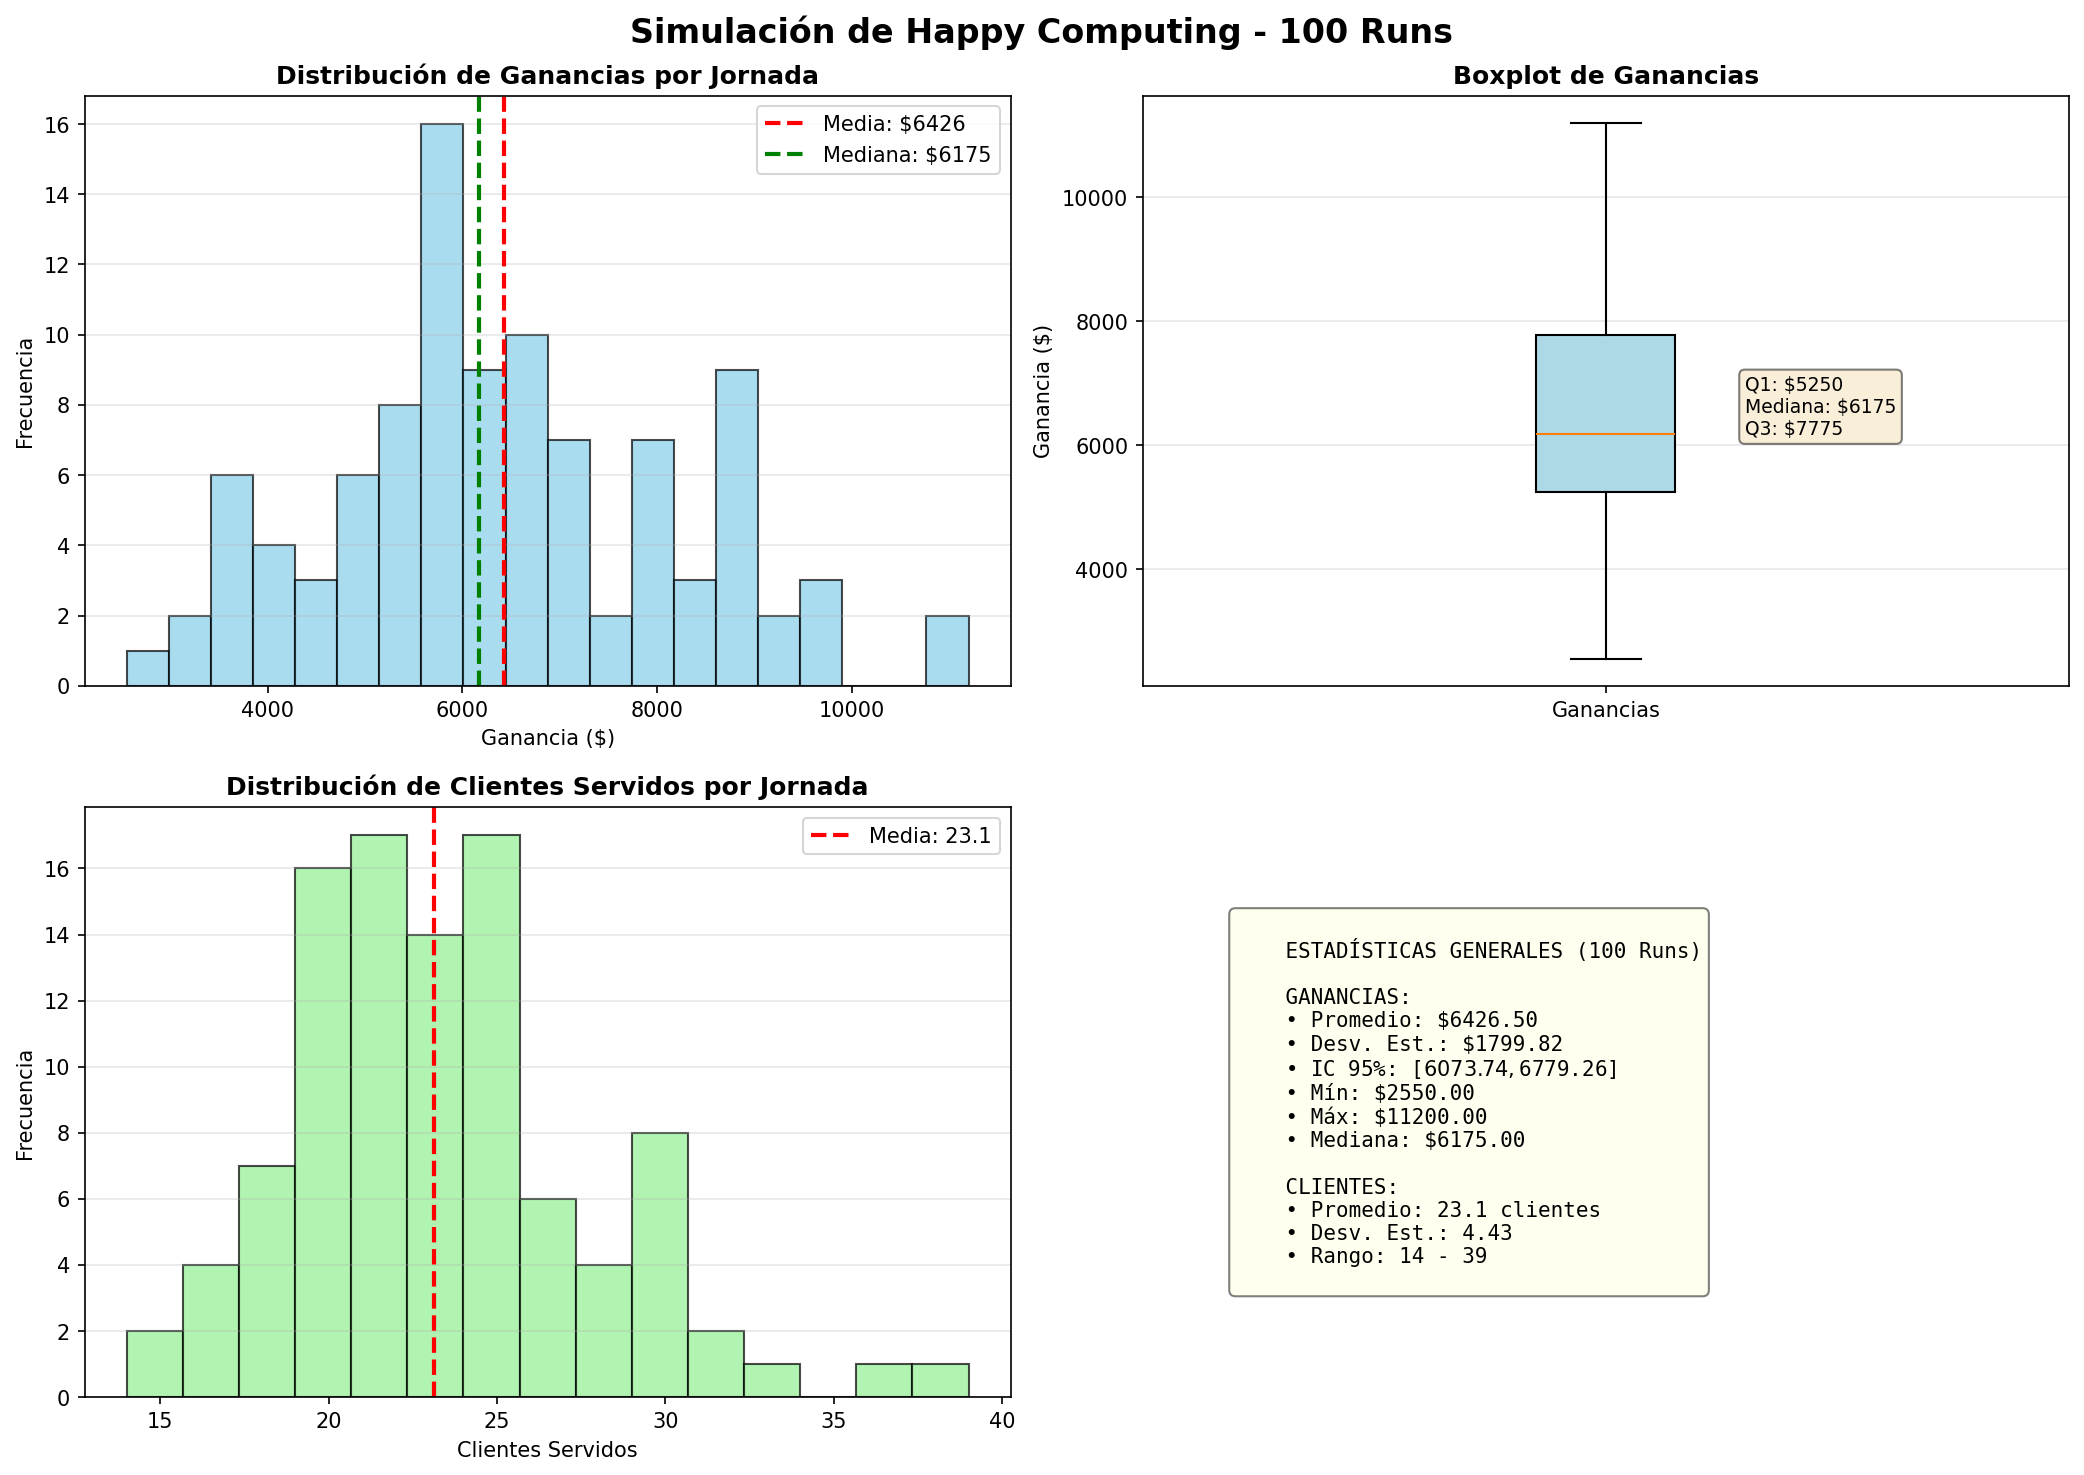
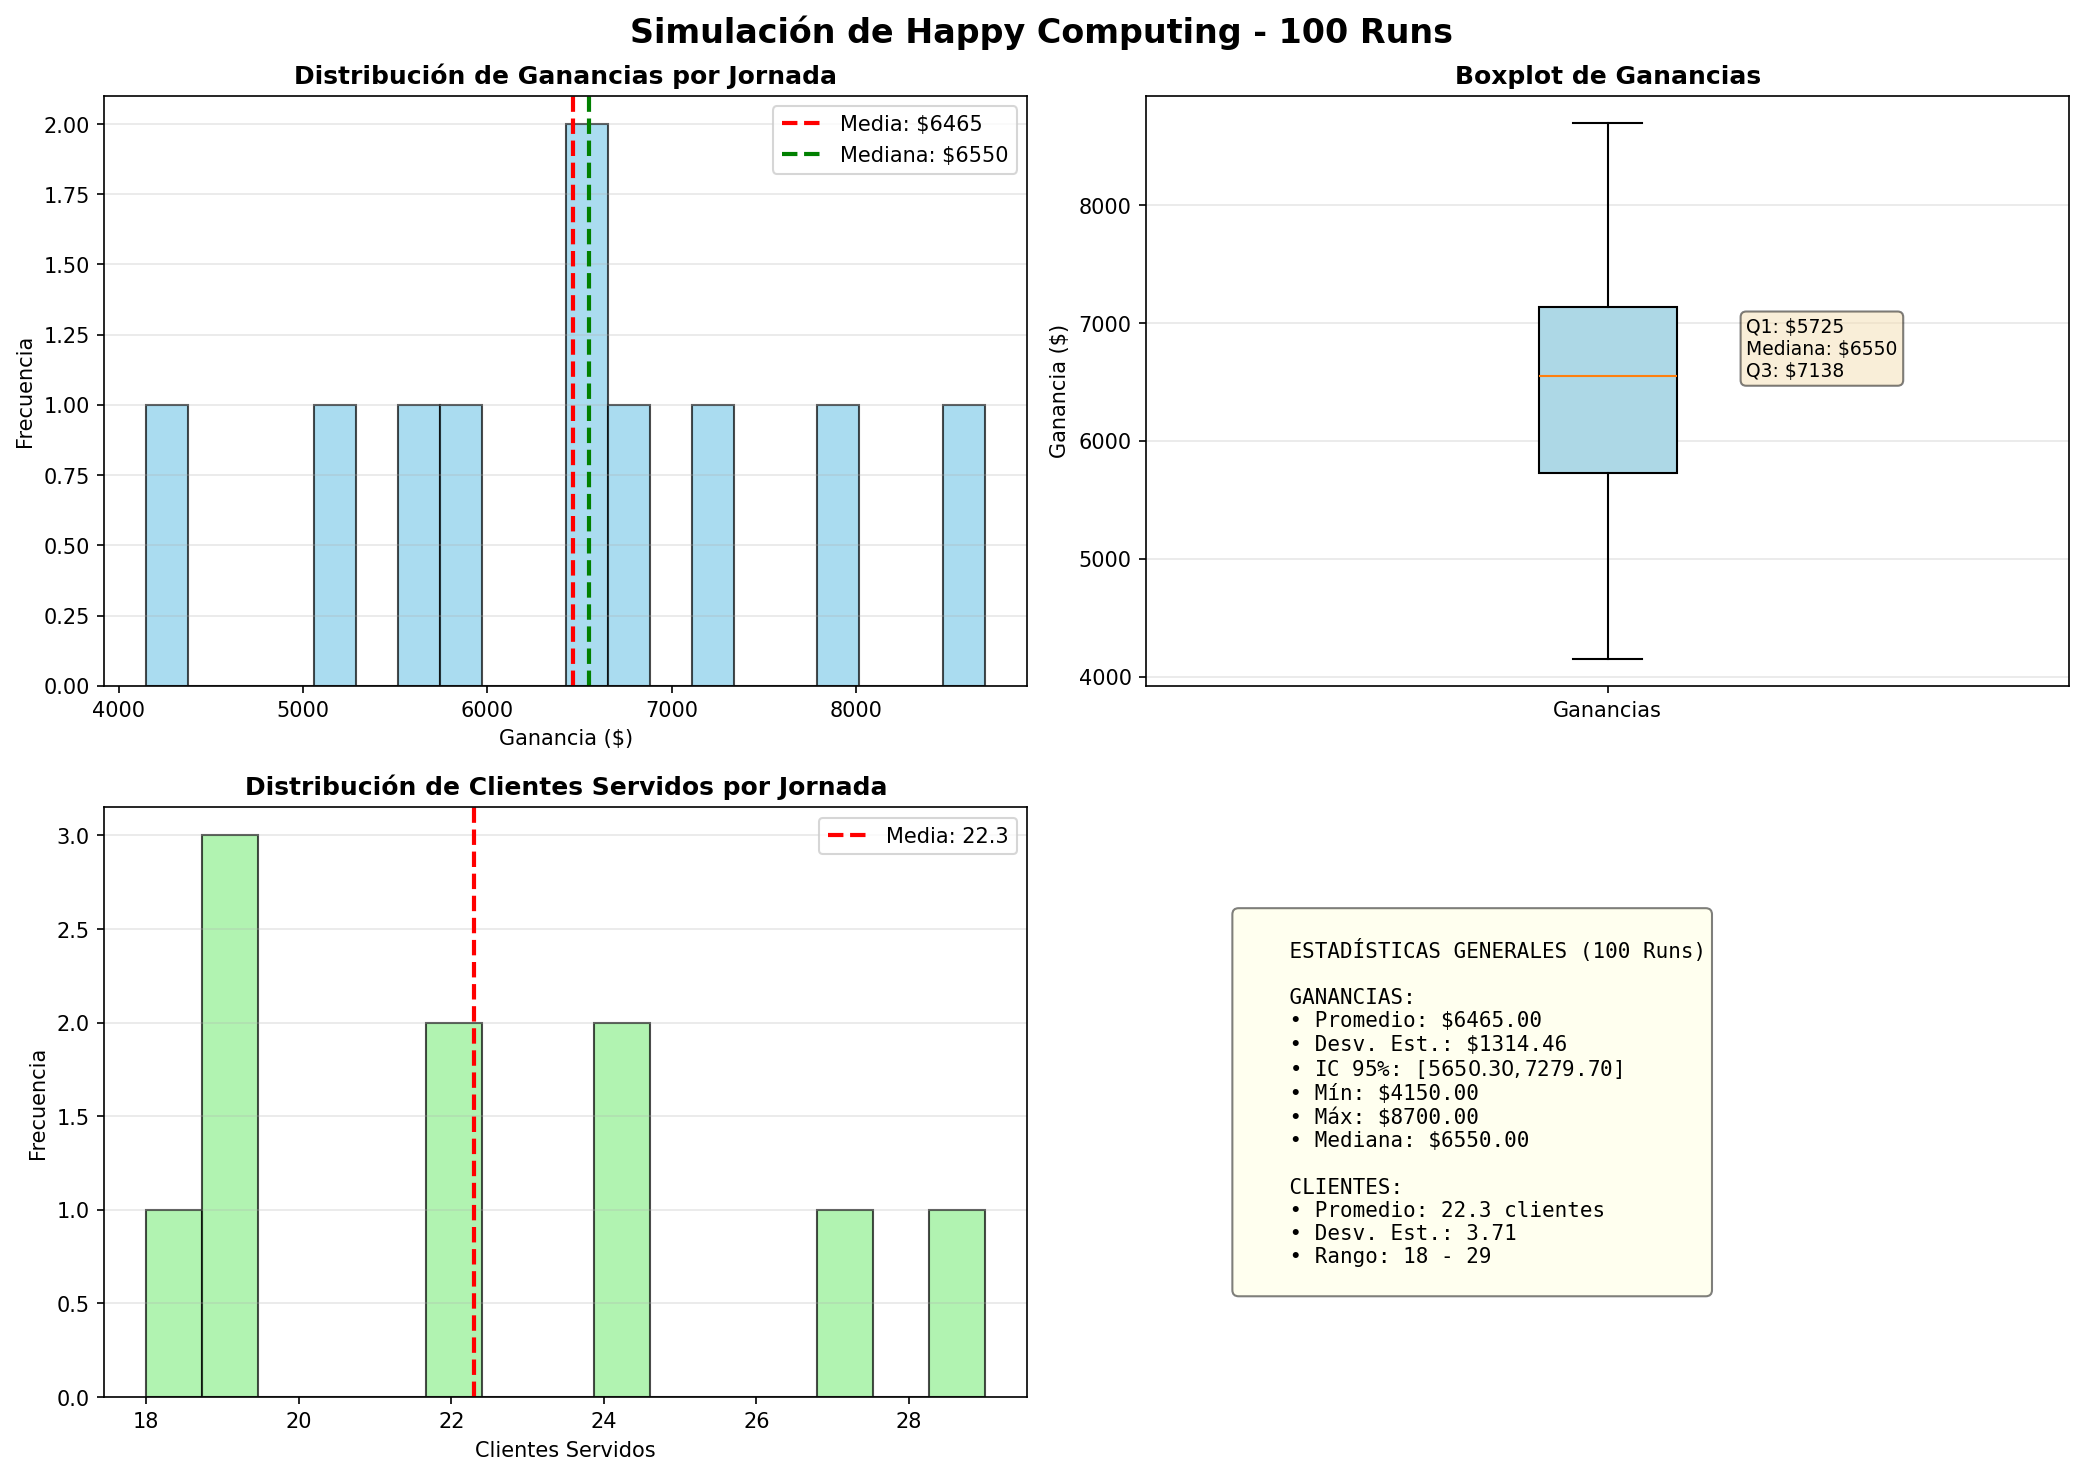
agregando nuevos analisis sobre las colas

diff --git a/src/visualizations.py b/src/visualizations.py
@@ -23,6 +23,7 @@ def create_visualizations(num_runs=100):
     profits = []
     clients_served = []
     all_stats = []
+    run_seeds = []
     
     print("Ejecutando simulaciones...")
     for i in range(num_runs):
@@ -34,6 +35,7 @@ def create_visualizations(num_runs=100):
         profits.append(stats.total_profit)
         clients_served.append(stats.clients_served)
         all_stats.append(stats)
+        run_seeds.append(i)
     
     print(f"  {num_runs}/{num_runs} completadas")
     print()
@@ -223,11 +225,61 @@ def create_visualizations(num_runs=100):
         axes3[1].axis('off')
         axes3[1].text(0.5, 0.5, 'No hay datos de utilización disponibles', ha='center', va='center', fontsize=12)
 
-    fig3.tight_layout(rect=[0, 0, 1, 0.96])
+    fig3.subplots_adjust(top=0.90)
     output_path3 = os.path.join(results_dir, 'queue_utilization_analysis.png')
     fig3.savefig(output_path3, dpi=150, bbox_inches='tight')
     print(f"✓ Figura guardada: {output_path3}")
-    
+
+    if all_stats:
+        queue_peaks = [
+            max(
+                s.get_queue_statistics()['seller_queue']['max'],
+                s.get_queue_statistics()['technician_queue']['max'],
+                s.get_queue_statistics()['specialized_queue']['max']
+            )
+            for s in all_stats
+        ]
+        best_queue_idx = int(np.argmax(queue_peaks))
+        representative_stats = all_stats[best_queue_idx]
+
+        queue_series = representative_stats.get_queue_time_series()
+        if len(queue_series['times']) > 0:
+            fig4, ax4 = plt.subplots(figsize=(12, 5))
+            ax4.plot(queue_series['times'], queue_series['seller'], label='Cola vendedores', linewidth=1.5)
+            ax4.plot(queue_series['times'], queue_series['technician'], label='Cola técnicos', linewidth=1.5)
+            ax4.plot(queue_series['times'], queue_series['specialized'], label='Cola especializado', linewidth=1.5)
+            ax4.set_title('Evolución de las colas durante una corrida con mayor congestión', fontweight='bold')
+            ax4.set_xlabel('Tiempo de simulación (minutos)')
+            ax4.set_ylabel('Longitud de cola')
+            ax4.grid(alpha=0.3)
+            ax4.legend()
+            plt.tight_layout()
+
+            output_path4 = os.path.join(results_dir, 'queue_evolution_analysis.png')
+            fig4.savefig(output_path4, dpi=150, bbox_inches='tight')
+            print(f"✓ Figura guardada: {output_path4}")
+
+        wait_means = [s.get_wait_time_stats()['mean'] for s in all_stats]
+        best_wait_idx = int(np.argmax(wait_means))
+        representative_wait_stats = all_stats[best_wait_idx]
+
+        arrival_times = np.array(representative_wait_stats.client_arrival_times)
+        wait_times = np.array(representative_wait_stats.client_wait_times)
+        if len(arrival_times) > 0 and len(wait_times) > 0:
+            fig5, ax5 = plt.subplots(figsize=(12, 5))
+            ax5.scatter(arrival_times, wait_times, s=15, alpha=0.6, color='#2a7f62')
+            ax5.set_title('Tiempo de espera vs. tiempo de llegada (corrida con mayor espera media)', fontweight='bold')
+            ax5.set_xlabel('Tiempo de llegada (minutos)')
+            ax5.set_ylabel('Tiempo de espera (minutos)')
+            ax5.grid(alpha=0.3)
+            ax5.set_xlim(left=0)
+            ax5.set_ylim(bottom=0)
+            plt.tight_layout()
+
+            output_path5 = os.path.join(results_dir, 'wait_time_vs_arrival.png')
+            fig5.savefig(output_path5, dpi=150, bbox_inches='tight')
+            print(f"✓ Figura guardada: {output_path5}")
+
     print()
     print("=" * 70)
     print("✅ VISUALIZACIONES COMPLETADAS")

diff --git a/src/generate_report.py b/src/generate_report.py
@@ -379,6 +379,16 @@ Llegada → Vendedor → (Técnico Ordinario si es reparación) → Fin<br/>
         story.append(Paragraph("(Imagen de convergencia no disponible)", body_style))
     
     story.append(PageBreak())
+
+    story.append(Paragraph("5.4 Consideraciones de Ejecución", styles['Heading3']))
+    execution_text = f"""
+La generación del informe se realizó con {num_runs} corridas independientes de 480 minutos cada una. Cada ejecución usa una semilla distinta para asegurar independencia y reproducibilidad de los escenarios generados.<br/>
+El análisis multi-run calcula medias muestrales, varianzas y el intervalo de confianza al 95% para la ganancia, el tiempo de espera promedio y el tiempo total promedio en el sistema.<br/>
+La gráfica de convergencia muestra cómo se estabiliza la estimación de ganancia promedio a medida que aumentan las corridas. Estos resultados permiten evaluar la calidad del estimador y la consistencia del modelo.<br/>
+El código fuente completo y la implementación están disponibles en GitHub: <a href="https://github.com/ChickenLittle02/Proyecto_Eventos_Discretos">https://github.com/ChickenLittle02/Proyecto_Eventos_Discretos</a>.
+    """
+    story.append(Paragraph(execution_text, body_style))
+    story.append(PageBreak())
     
     # ========== CONCLUSIONES ==========
     story.append(Paragraph("6. CONCLUSIONES", heading_style))
@@ -400,7 +410,9 @@ de los ingresos.<br/>
 seguido por reparaciones sin garantía (${profits_by_type[1]:.0f}).<br/>
 <br/>
 El modelo de simulación permite a la gerencia estimar ingresos y tomar decisiones sobre asignación 
-de recursos (vendedores, técnicos) para maximizar ganancias en diferentes escenarios.
+de recursos (vendedores, técnicos) para maximizar ganancias en diferentes escenarios.<br/>
+<br/>
+El informe y el código fuente están disponibles en GitHub: <a href="https://github.com/ChickenLittle02/Proyecto_Eventos_Discretos">https://github.com/ChickenLittle02/Proyecto_Eventos_Discretos</a>.
     """
     story.append(Paragraph(conclusion_text, body_style))
     

diff --git a/src/stats.py b/src/stats.py
@@ -8,6 +8,7 @@ class Stats:
         self.seller_queue_lengths = []
         self.technician_queue_lengths = []
         self.specialized_queue_lengths = []
+        self.queue_observation_times = []
         
         # Nuevas métricas por cliente
         self.client_wait_times = []      # Tiempo que esperan los clientes
@@ -25,10 +26,11 @@ class Stats:
     def increment_clients(self):
         self.clients_served += 1
 
-    def record_queues(self, seller_q, tech_q, spec_q):
+    def record_queues(self, seller_q, tech_q, spec_q, current_time=None):
         self.seller_queue_lengths.append(len(seller_q))
         self.technician_queue_lengths.append(len(tech_q))
         self.specialized_queue_lengths.append(len(spec_q))
+        self.queue_observation_times.append(current_time if current_time is not None else 0)
     
     def record_client_metrics(self, arrival_time, departure_time, wait_time, service_time, total_time, service_type):
         """Registra métricas de un cliente específico"""
@@ -109,6 +111,14 @@ class Stats:
             'seller_queue': summarize(self.seller_queue_lengths),
             'technician_queue': summarize(self.technician_queue_lengths),
             'specialized_queue': summarize(self.specialized_queue_lengths),
+        }
+
+    def get_queue_time_series(self):
+        return {
+            'times': np.array(self.queue_observation_times),
+            'seller': np.array(self.seller_queue_lengths),
+            'technician': np.array(self.technician_queue_lengths),
+            'specialized': np.array(self.specialized_queue_lengths),
         }
     
     @staticmethod

diff --git a/src/happy_computing.py b/src/happy_computing.py
@@ -42,7 +42,12 @@ class HappyComputingSimulation(Simulation):
         elif event.kind == 'SPECIALIZED_END':
             self.handle_specialized_end(event.payload)
 
-        self.stats.record_queues(self.seller_queue, self.technician_queue, self.specialized_queue)
+        self.stats.record_queues(
+            self.seller_queue,
+            self.technician_queue,
+            self.specialized_queue,
+            current_time=self.clock
+        )
 
     def handle_arrival(self):
         # Create client

diff --git a/actual_plan.md b/actual_plan.md
@@ -3,23 +3,19 @@ Te propongo avanzar paso a paso así:
 - Revisar y aprobar el nuevo flujo de exportación CSV en main.py y export_data.py. ✅
 - Validar la estructura de métricas en stats.py. ✅
 - Añadir análisis adicional de cola / utilización y posibles visualizaciones. ✅
+- Extender el informe PDF para incluir todos los nuevos análisis y gráficos, incluyendo análisis multi-run y convergencia. ✅
+- Añadir el enlace al repositorio GitHub en README e informe. ✅
+- Implementar análisis estadístico multi-run:
+  - calcular media muestral, varianza muestral y desviación estándar de la muestra ✅
+  - generar IC 95% para la ganancia promedio o tiempo promedio ✅
+  - crear `src/multi_run.py` para ejecutar varias corridas independientes ✅
+  - generar `results/multi_run_summary.csv` ✅
 
-Siguientes pasos para completar la Opción B:
+Siguientes pasos pendientes para completar la Opción B:
 
-- Agregar visualizaciones de evolución de colas a lo largo del tiempo.
-- Generar gráficos de tiempos de espera vs. tiempo de llegada.
+- Agregar visualizaciones de evolución de colas a lo largo del tiempo. ✅
+- Generar gráficos de tiempos de espera vs. tiempo de llegada. ✅
 - Validar distribuciones con histogramas teóricos y Q-Q plots.
 - Implementar análisis de sensibilidad variando el número de técnicos y vendedores.
-- Extender el informe PDF para incluir todos los nuevos análisis y gráficos, incluyendo análisis multi-run y convergencia.
-- Añadir el enlace al repositorio GitHub en README e informe.
-- Incluir en el informe:
-  - datos generales del estudiante
-  - orden del problema asignado
-  - ideas principales de solución
-  - modelo de simulación de eventos discretos desarrollado
-  - consideraciones obtenidas de las ejecuciones
-- Implementar análisis estadístico multi-run:
-  - calcular media muestral, varianza muestral y desviación estándar de la muestra
-  - generar IC 95% para la ganancia promedio o tiempo promedio
-  - opcional: criterio de parada por error estándar del estimador (capítulo 4)  - crear `src/multi_run.py` para ejecutar varias corridas independientes
-  - generar `results/multi_run_summary.csv`- Opcional: exportar un CSV de resumen por corrida / multi-run para comparar resultados.
+- Opcional: incluir criterio de parada por error estándar del estimador (capítulo 4).
+- Mejorar el informe con gráficos adicionales y análisis comparativos por tipo de servicio y recurso.

diff --git a/README.md b/README.md
@@ -41,16 +41,16 @@ Se comenzó la implementación de la opción B con:
   - `results/happy_computing_analysis.png`
   - `results/service_type_analysis.png`
   - `results/queue_utilization_analysis.png`
-
-## Uso de visualizaciones
-
-Ejecutar las visualizaciones:
+  - `results/queue_evolution_analysis.png`
+  - `results/wait_time_vs_arrival.png`
 
 ```bash
 python src/visualizations.py
 ```
 
-Esto generará gráficos de ganancias, distribución por tipo de servicio y análisis de colas/utilización.
+Esto generará gráficos de ganancias, distribución por tipo de servicio, análisis de colas/utilización, evolución de las colas en el tiempo y tiempo de espera vs. tiempo de llegada.
+
+Las gráficas de evolución de cola y espera toman una corrida representativa del conjunto de corridas, elegida por mayor congestión o mayor tiempo de espera medio, para mostrar mejor las variaciones.
 
 ## Análisis multi-run
 
@@ -73,6 +73,12 @@ python src/generate_report.py
 Esto generará:
 
 - `informe/informe_happy_computing.pdf`
+
+El informe PDF incluye una sección de consideraciones de ejecución y el enlace al repositorio GitHub.
+
+## Repositorio GitHub
+
+- https://github.com/ChickenLittle02/Proyecto_Eventos_Discretos
 
 ## Estructura del proyecto
 